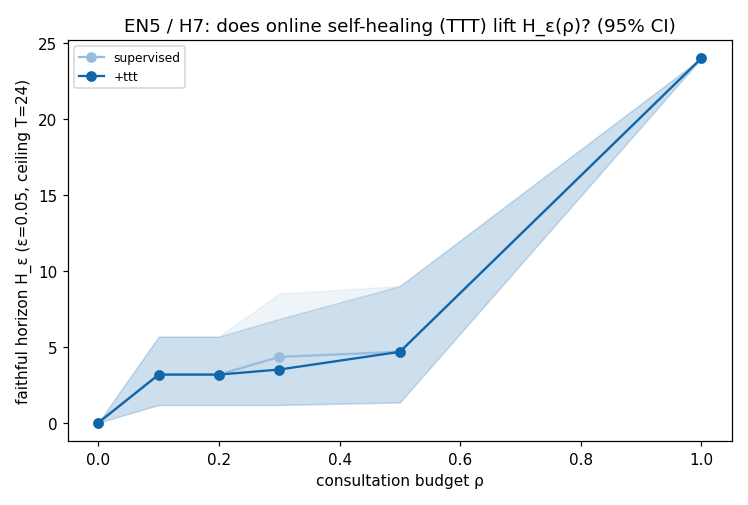
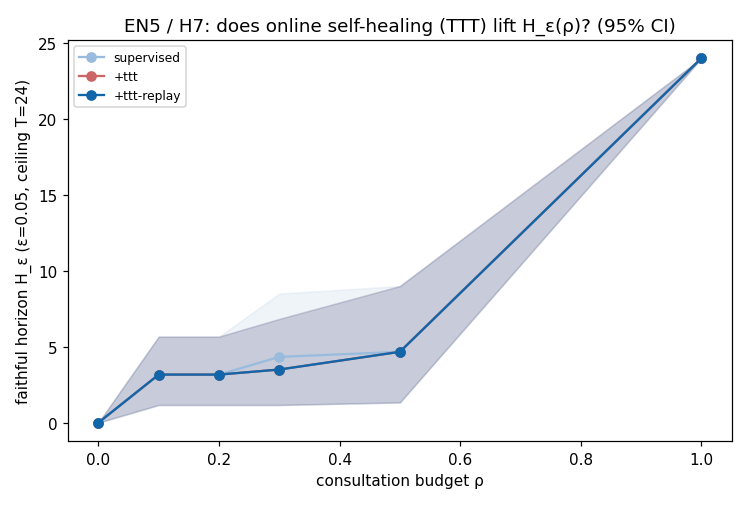
EN5 replay-buffer follow-up: the self-healing floor null is robust — adaptation can't lift it, scale/objective must
The next task was the pre-registered EN5 follow-up: run the real self-healing
budget (replay buffer of corrections), not just the minimal single-example step,
and see whether it lifts the model-invariant floor. It does not — a stronger,
cleaner negative that closes self-healing-as-floor-lifter at this scale.

Extended EN5 to three arms (refactored the TTT hook into a clean on_consult
closure so arms compose):
- supervised   0.0 / 3.2 / 3.2 / 4.3 / 4.7 / 24.0  (frozen weights)
- +ttt          0.0 / 3.2 / 3.2 / 3.5 / 4.7 / 24.0  (single-example update)
- +ttt-replay   0.0 / 3.2 / 3.2 / 3.5 / 4.7 / 24.0  (replay buffer, 5 updates/consult)

Both TTT arms are identical and ~= the frozen baseline (marginally lower at
rho=0.3); neither changes WHERE the first drift happens, so first-exceedance
H_eps is unmoved. So the richer budget does not rescue H7 — the STRONG form of
the negative. Consistent with EN7 (floor is model-invariant) and EN4 (the wall is
the one-step->horizon conversion): online adaptation cannot move the binding
per-step competence. The floor's real levers are scale (SPEC-9) and objective
grounding (SPEC-8), not adaptation or correction-as-teaching. RLVR stays deferred.

Banked: SPEC-5 §12 EN5 (Result -> robust null), SPEC-3 H7 (Result), report.md
(3-arm table + verdict), README §10 + Status + NW8 row. The online_update primitive
ships for the host/distributed worlds where horizons are longer.
[…]

diff --git a/src/verisim/experiments/en5.py b/src/verisim/experiments/en5.py
@@ -27,15 +27,16 @@ from __future__ import annotations
 
 import argparse
 import copy
+import random
+from collections.abc import Callable
 from dataclasses import dataclass, field
 from pathlib import Path
 from statistics import fmean
-from typing import Any
 
 from verisim.loop.policy import StepContext, fixed_interval_for_rho
 from verisim.metrics.aggregate import bootstrap_ci
 from verisim.net.action import NetAction
-from verisim.net.config import NetConfig, scaled_net_config
+from verisim.net.config import scaled_net_config
 from verisim.net.state import NetworkState
 from verisim.netdelta import apply
 from verisim.netloop import PartialNetOracle, budget_for_rho
@@ -43,10 +44,11 @@ from verisim.netloop.model import NetModel
 from verisim.netloop.runner import ground_truth_rollout
 from verisim.netmetrics.divergence import divergence
 from verisim.netoracle import ReferenceNetworkOracle
+from verisim.netoracle.base import NetStepResult
 
 from .en1 import eval_actions
 
-ARMS = ("supervised", "+ttt")
+ARMS = ("supervised", "+ttt", "+ttt-replay")
 
 
 @dataclass(frozen=True)
@@ -66,6 +68,9 @@ class EN5Config:
     # online TTT (the discipline: few steps, small lr — SPEC-3 HW-2)
     ttt_steps: int = 3
     ttt_lr: float = 1e-3
+    # the pre-registered self-healing budget: a replay buffer of recent corrections (SPEC-3 §6)
+    replay_steps: int = 5  # minibatch updates per consult, sampled from the buffer
+    replay_batch: int = 8
     # evaluation / sweep
     difficulties: dict[str, str] = field(
         default_factory=lambda: {"low": "weighted", "high": "adversarial"}
@@ -105,24 +110,19 @@ def _faithful_horizon(divergences: list[float], epsilon: float) -> int:
 def _rollout(
     model: NetModel,
     partial: PartialNetOracle,
-    config: NetConfig,
     s0: NetworkState,
     actions: list[NetAction],
     rho: float,
     epsilon: float,
     *,
-    ttt: tuple[Any, ...] | None,
+    on_consult: Callable[[NetworkState, NetAction, NetStepResult], None] | None,
 ) -> int:
     """One full-consultation propose-verify-correct rollout; returns the faithful horizon.
 
     Mirrors :func:`verisim.netloop.runner.run_net_rollout` (full-consult path) so the supervised arm
-    is EN1-identical; the only addition is the optional ``ttt = (graph_model, optimizer, steps,
-    vocab)`` hook that takes online gradient steps on the oracle-revealed delta on each consult.
+    is EN1-identical; the only addition is the optional ``on_consult`` hook, called with the exact
+    one-step truth on each consultation so an arm can take a self-healing gradient step (TTT) on it.
     """
-    from verisim.netmodel.graph import build_graph
-    from verisim.netmodel.graph_train import online_update
-    from verisim.netmodel.tokenizer import encode_target
-
     n = len(actions)
     truth_states = ground_truth_rollout(partial, s0, actions)
     policy = fixed_interval_for_rho(rho)
@@ -139,10 +139,8 @@ def _rollout(
         if consult:
             calls += 1
             result = partial.full(state, action)  # VERIFY: the exact one-step truth
-            if ttt is not None:  # self-healing: teach the revealed (state, action) → true-delta
-                gmodel, optimizer, steps, vocab = ttt
-                example = (build_graph(state, action, config), encode_target(result.delta, vocab))
-                online_update(gmodel, optimizer, [example], steps=steps)
+            if on_consult is not None:  # self-healing: teach the revealed (state, action) -> truth
+                on_consult(state, action, result)
             state = result.state  # CORRECT (hard reset to truth)
         else:
             state = predicted
@@ -151,12 +149,19 @@ def _rollout(
 
 
 def run_en5(config: EN5Config | None = None) -> list[CurvePoint]:
-    """Train the base arm, then sweep H_ε(ρ) for {supervised, +ttt}; one point per cell."""
+    """Train the base arm, then sweep H_ε(ρ) for the three arms; one point per (arm, ρ) cell."""
     import torch
 
     from verisim.netmodel import NetVocab
-    from verisim.netmodel.graph_model import build_graph_model
-    from verisim.netmodel.graph_train import build_graph_dataset, train_graph_model
+    from verisim.netmodel.graph import build_graph
+    from verisim.netmodel.graph_model import GraphRSSMWorldModel, build_graph_model
+    from verisim.netmodel.graph_train import (
+        GraphExample,
+        build_graph_dataset,
+        online_update,
+        train_graph_model,
+    )
+    from verisim.netmodel.tokenizer import encode_target
 
     config = config or EN5Config()
     torch.set_num_threads(1)  # process-reproducibility (the EN1 discipline)
@@ -175,6 +180,34 @@ def run_en5(config: EN5Config | None = None) -> list[CurvePoint]:
     )
     train_graph_model(base, examples, steps=config.graph_iters, seed=config.model_seed)
 
+    def _make_arm(
+        arm: str, seed: int
+    ) -> tuple[NetModel, Callable[[NetworkState, NetAction, NetStepResult], None] | None]:
+        """Return ``(proposer, on_consult)`` for ``arm``; TTT arms get a fresh adapting copy."""
+        if arm == "supervised":
+            return base, None
+        model: GraphRSSMWorldModel = copy.deepcopy(base)
+        opt = torch.optim.AdamW(model.net.parameters(), lr=config.ttt_lr)
+        if arm == "+ttt":  # minimal: one update on the single revealed example
+
+            def single(s: NetworkState, a: NetAction, r: NetStepResult) -> None:
+                ex = (build_graph(s, a, net), encode_target(r.delta, vocab))
+                online_update(model, opt, [ex], steps=config.ttt_steps)
+
+            return model, single
+        # +ttt-replay: the pre-registered self-healing budget — a growing replay buffer of
+        # corrections, several minibatch updates per consult (SPEC-3 §6; the H7-null next lever).
+        buffer: list[GraphExample] = []
+        rng = random.Random(seed)
+
+        def replay(s: NetworkState, a: NetAction, r: NetStepResult) -> None:
+            buffer.append((build_graph(s, a, net), encode_target(r.delta, vocab)))
+            for _ in range(config.replay_steps):
+                batch = rng.sample(buffer, min(config.replay_batch, len(buffer)))
+                online_update(model, opt, batch, steps=1)
+
+        return model, replay
+
     points: list[CurvePoint] = []
     for arm in ARMS:
         per_rho: dict[float, list[float]] = {rho: [] for rho in config.rhos}
@@ -183,15 +216,10 @@ def run_en5(config: EN5Config | None = None) -> list[CurvePoint]:
                 actions = eval_actions(oracle, net, driver, seed, config.eval_steps)
                 for rho in config.rhos:
                     torch.manual_seed(seed)  # reproducible TTT sampling per rollout
-                    if arm == "+ttt":
-                        model = copy.deepcopy(base)
-                        opt = torch.optim.AdamW(model.net.parameters(), lr=config.ttt_lr)
-                        ttt: tuple[Any, ...] | None = (model, opt, config.ttt_steps, vocab)
-                    else:
-                        model, ttt = base, None
+                    model, on_consult = _make_arm(arm, seed)
                     horizon = _rollout(
-                        model, partial, net, NetworkState.initial(net.hosts), actions,
-                        rho, config.epsilon, ttt=ttt,
+                        model, partial, NetworkState.initial(net.hosts), actions,
+                        rho, config.epsilon, on_consult=on_consult,
                     )
                     per_rho[rho].append(horizon)
         for rho in config.rhos:
@@ -217,7 +245,7 @@ def _plot(points: list[CurvePoint], path: Path, config: EN5Config) -> None:  # p
     import matplotlib.pyplot as plt
 
     fig, ax = plt.subplots(figsize=(6.8, 4.6))
-    colors = {"supervised": "#9bd", "+ttt": "#16a"}
+    colors = {"supervised": "#9bd", "+ttt": "#c66", "+ttt-replay": "#16a"}
     for arm in ARMS:
         cells = sorted((p for p in points if p.arm == arm), key=lambda p: p.rho)
         xs = [p.rho for p in cells]

diff --git a/tests/test_en5.py b/tests/test_en5.py
@@ -18,6 +18,8 @@ def _tiny() -> EN5Config:
         train_steps_per_traj=10,
         graph_iters=30,
         ttt_steps=2,
+        replay_steps=2,
+        replay_batch=4,
         difficulties={"low": "weighted"},
         eval_seeds=(100,),
         eval_steps=8,

diff --git a/README.md b/README.md
@@ -232,16 +232,19 @@ the weights mid-rollout lift the curve where frozen weights cannot?
 | arm | ρ=0 | ρ=0.1 | ρ=0.3 | ρ=0.5 | ρ=1.0 |
 |---|---|---|---|---|---|
 | supervised (frozen) | 0.0 | 3.2 | 4.3 | 4.7 | 24.0 |
-| +ttt (self-healing) | 0.0 | 3.2 | 3.5 | 4.7 | 24.0 |
+| +ttt (single-example) | 0.0 | 3.2 | 3.5 | 4.7 | 24.0 |
+| +ttt-replay (replay buffer) | 0.0 | 3.2 | 3.5 | 4.7 | 24.0 |
 
-**A null at this scale.** The self-healing arm matches the frozen baseline (marginally *lower* at ρ=0.3 —
-single-example updates occasionally perturb without generalizing). This is consistent, not surprising:
+**A robust null — and the pre-registered lever was run, not just promised.** *Both* self-healing arms —
+the minimal single-example update **and** the replay-buffer budget (a growing buffer of corrections, 5
+minibatch updates per consult) — match the frozen baseline; neither changes *where* the first drift
+happens, so `H_ε` is unmoved. The richer budget does not rescue H7. This is consistent, not surprising:
 EN4 localized the wall to the **one-step→horizon conversion** and EN7 showed the floor is model-invariant,
-so a handful of in-rollout steps on single examples can't move the binding per-step competence. It's the
-v0 RLVR/H3 null surviving into the network world, and the TTT-stability literature predicted exactly this
-for minimal updates. *Pre-registered next lever:* a real self-healing budget — a **replay buffer** of
-recent corrections + trust-region revert, not the minimal single-example step. The
-[`online_update`](src/verisim/netmodel/graph_train.py) primitive ships for that follow-up.
+so online adaptation — in either form — can't move the binding per-step competence. **Where this routes
+the floor:** self-healing-as-floor-lifter is closed at this scale; the floor's real levers are **scale
+([SPEC-9](docs/specs/SPEC-9.md)) and objective grounding ([SPEC-8](docs/specs/SPEC-8.md))**, not
+adaptation. The [`online_update`](src/verisim/netmodel/graph_train.py) primitive ships for the
+host/distributed worlds where horizons are longer.
 
 ## The problem, and what we're trying to accomplish
 
@@ -407,10 +410,11 @@ write-up is [docs/report.md](docs/report.md).
 > modestly by scaling negatives with the world).** **EN7/H22 model-invariance now ships** ([§9](#9-the-no-knee-shape-is-the-loops-not-the-models-network-en7--h22)):
 > the floor+cliff `H_ε(ρ)` shape is the same across null / flat / graph proposers — the loop governs the
 > shape, the proposer sets the floor height (H22 supported in kind). **EN5/H7 self-healing also ships**
-> ([§10](#10-online-self-healing-ttt-does-not-lift-the-floor--yet-network-en5--h7-an-honest-null)): a
-> minimal in-rollout TTT step does *not* lift the floor (an honest null, consistent with EN4/EN7) — the
-> pre-registered fix is a real replay-buffer self-healing budget. Next: EN6 (counterfactual two-oracle),
-> the SPEC-9 LS3 hero instance (N~400–512), and the replay-buffer EN5 follow-up.
+> ([§10](#10-online-self-healing-ttt-does-not-lift-the-floor--yet-network-en5--h7-an-honest-null)):
+> *neither* a minimal in-rollout TTT step *nor* the pre-registered replay-buffer self-healing budget
+> lifts the floor (a robust null, consistent with EN4/EN7) — so the floor's levers are scale (SPEC-9) and
+> objective grounding (SPEC-8), not adaptation. Next: EN6 (counterfactual two-oracle, H12/H5 change-safety),
+> the SPEC-9 LS3 hero instance (N~400–512).
 
 **v0 — shell/filesystem world (`src/verisim/`, SPEC-2 §13): complete.**
 
@@ -433,7 +437,7 @@ write-up is [docs/report.md](docs/report.md).
 | **NW5** | Partial-observation loop ([`netloop/`](src/verisim/netloop/)): two-mode (full / **probe**) oracle, probe policies `π_o`, correction/belief operators, baselines, model-agnostic runner | ✅ |
 | **NW6** | **EN1 network `H_ε(ρ)` curve** ([`en1_curve.png`](figures/en1_curve.png)) — the prime directive. Honest H8 negative on the flat arm: near-flat interior | ✅ |
 | **NW7** | Equal-budget comparisons. **EN2** (policy `π_c`, H9) + **EN3** (operators, §8.3): EN3 breaks v0's operator-identity collapse — the probe earns **~2.3×** more faithful horizon per oracle-bit | ◐ EN2/EN3 |
-| **NW8** | **GNN + RSSM graph arm** ([`graph_model.py`](src/verisim/netmodel/graph_model.py)) + §6.3 **noise + self-forcing** levers + **EN4 graph-vs-flat (H11)** + **delta-exact metric** ([`exact.py`](src/verisim/netmetrics/exact.py)) + **SPEC-8 OG1/OG2 data factory** ([`grounding.py`](src/verisim/netdata/grounding.py), [`negatives.py`](src/verisim/netdata/negatives.py)) + **SPEC-8 EN8/OG3 ablation** ([`en8.py`](src/verisim/experiments/en8.py), [`grounded_train.py`](src/verisim/netmodel/grounded_train.py): H23 collapse-tax removed, H24 near-tie) + **SPEC-8 EN9/OG4 ablation** ([`en9.py`](src/verisim/experiments/en9.py): H25 confirmed, H5 fidelity ~2× over VICReg) + **EN7/H22 model-invariance** ([`en7.py`](src/verisim/experiments/en7.py): the floor+cliff `H_ε(ρ)` shape is invariant across null/flat/graph proposers — H22 supported in kind) + **EN5/H7 self-healing** ([`en5.py`](src/verisim/experiments/en5.py): a minimal online-TTT step is a null at this scale; the `online_update` primitive ships for the replay-buffer follow-up). Then counterfactual (EN6) | ◐ graph arm + EN4 + both levers + OG1/OG2 + EN8/OG3 + EN9/OG4 + EN7/H22 + EN5/H7 |
+| **NW8** | **GNN + RSSM graph arm** ([`graph_model.py`](src/verisim/netmodel/graph_model.py)) + §6.3 **noise + self-forcing** levers + **EN4 graph-vs-flat (H11)** + **delta-exact metric** ([`exact.py`](src/verisim/netmetrics/exact.py)) + **SPEC-8 OG1/OG2 data factory** ([`grounding.py`](src/verisim/netdata/grounding.py), [`negatives.py`](src/verisim/netdata/negatives.py)) + **SPEC-8 EN8/OG3 ablation** ([`en8.py`](src/verisim/experiments/en8.py), [`grounded_train.py`](src/verisim/netmodel/grounded_train.py): H23 collapse-tax removed, H24 near-tie) + **SPEC-8 EN9/OG4 ablation** ([`en9.py`](src/verisim/experiments/en9.py): H25 confirmed, H5 fidelity ~2× over VICReg) + **EN7/H22 model-invariance** ([`en7.py`](src/verisim/experiments/en7.py): the floor+cliff `H_ε(ρ)` shape is invariant across null/flat/graph proposers — H22 supported in kind) + **EN5/H7 self-healing** ([`en5.py`](src/verisim/experiments/en5.py): a robust null — neither single-example TTT nor a replay-buffer budget lifts the floor; the floor's levers are scale/objective, not adaptation). Then counterfactual (EN6) | ◐ graph arm + EN4 + both levers + OG1/OG2 + EN8/OG3 + EN9/OG4 + EN7/H22 + EN5/H7 |
 | **SPEC-9 LS0–LS2** | **Free-oracle scaling** ([`en8_scale.py`](src/verisim/experiments/en8_scale.py), [`en9_scale.py`](src/verisim/experiments/en9_scale.py), [`en8_capacity.py`](src/verisim/experiments/en8_capacity.py), [`scale_common.py`](src/verisim/experiments/scale_common.py)): the measured local envelope + the 8× world-size surface with bootstrap CIs ([§8](#8-which-wins-survive-scaling--the-honest-mixed-verdict-spec-9)). **S1** H23 attenuates, **S2** H25/H5 reverses, **S3** H24 regime-dependent. The [`en9_negatives.py`](src/verisim/experiments/en9_negatives.py) S2-recovery diagnostic **confirms** the lift recovers when negatives scale with the world (k 8→32 flips it back to disjoint-positive) | ✅ LS0–LS2 + S2-recovery + S3 frontier |
 
 The deterministic cores (filesystem and network) have **no runtime dependencies** and need no GPU.

diff --git a/docs/report.md b/docs/report.md
@@ -737,20 +737,23 @@ trajectory. Two arms through the same loop (5 hosts, ε=0.05, T=24, 3 seeds × 2
 | arm | ρ=0 | ρ=0.1 | ρ=0.2 | ρ=0.3 | ρ=0.5 | ρ=1.0 |
 |---|---|---|---|---|---|---|
 | supervised (frozen) | 0.0 | 3.2 | 3.2 | 4.3 | 4.7 | 24.0 |
-| +ttt (self-healing) | 0.0 | 3.2 | 3.2 | 3.5 | 4.7 | 24.0 |
+| +ttt (single-example) | 0.0 | 3.2 | 3.2 | 3.5 | 4.7 | 24.0 |
+| +ttt-replay (replay buffer) | 0.0 | 3.2 | 3.2 | 3.5 | 4.7 | 24.0 |
 
 ![EN5 / H7: online self-healing (TTT) does not lift H_ε(ρ) at this scale](../figures/en5_selfheal.png)
 
-**H7 is a null at this scale.** The self-healing arm does not lift `H_ε(ρ)` above the frozen baseline —
-identical in kind, marginally *lower* at ρ=0.3 (a few single-example gradient steps occasionally perturb
-the weights without generalizing to the next unaided step). This is the v0 H3/RLVR null surviving into the
-network world, and it is *consistent*, not surprising: EN7 showed the floor is model-invariant and EN4
-localized the wall to the **one-step→horizon conversion**, so a handful of in-rollout steps on single
-examples cannot move the binding per-step competence. The TTT-stability literature (SPEC-3 §6.3) predicted
-exactly this risk for minimal updates — so a null *confirms a known failure mode* rather than wasting the
-run. **Pre-registered next lever:** a real self-healing budget — a replay buffer of recent corrections,
-more steps, a trust-region revert — not the minimal single-example update; and RLVR stays deferred (its
-reward is sparse exactly at the floor). The `online_update` primitive ships for that follow-up either way.
+**H7 is a robust null at this scale — and the pre-registered next lever was run, not just promised.** Both
+self-healing arms — the minimal single-example update *and* the **replay-buffer budget** (a growing buffer
+of corrections, 5 minibatch updates per consult, SPEC-3 §6) — match the frozen baseline (marginally *lower*
+at ρ=0.3); neither changes *where* the first drift happens, so the first-exceedance `H_ε` is unmoved. So
+the richer budget does not rescue H7: this is the **strong** form of the negative. It is *consistent*, not
+surprising: EN7 showed the floor is model-invariant and EN4 localized the wall to the
+**one-step→horizon conversion**, so online adaptation — in either form — cannot move the binding per-step
+competence. The TTT-stability literature (SPEC-3 §6.3) predicted exactly this for in-rollout updates.
+**Where this routes the floor:** self-healing-as-floor-lifter is closed at this scale; the floor's real
+levers are **scale (SPEC-9) and objective grounding (SPEC-8 oracle-anchored pretraining)**, not adaptation
+or correction-as-teaching. RLVR stays deferred (its reward is sparse exactly at the floor). The
+`online_update` primitive ships regardless, for the host/distributed worlds where horizons are longer.
 
 ## Threats to validity
 

diff --git a/docs/specs/SPEC-5.md b/docs/specs/SPEC-5.md
@@ -736,16 +736,17 @@ the network world — they are gated on the NW8 latent arm.
   > **Result — H7 a null at this scale ([`en5.py`](../../src/verisim/experiments/en5.py),
   > [`en5_selfheal.csv`](../../figures/en5_selfheal.csv); 5 hosts, ε=0.05, T=24, 3 seeds × 2
   > difficulties, the [`online_update`](../../src/verisim/netmodel/graph_train.py) TTT primitive).**
-  > Adding an in-rollout gradient step on each oracle-revealed delta (the self-healing arm) does **not**
-  > lift `H_ε(ρ)` above the frozen-weights baseline: supervised 0.0/3.2/3.2/4.3/4.7/24 vs +ttt
-  > 0.0/3.2/3.2/3.5/4.7/24 — identical in kind, marginally *lower* at ρ=0.3 (single-example updates
-  > occasionally perturb without generalizing to the next unaided step). This is the v0 H3/RLVR null
-  > surviving into the network world, and it is consistent: EN7 showed the floor is model-invariant and
-  > EN4 localized the wall to the one-step→horizon conversion, so a handful of in-rollout steps on single
-  > examples cannot move the binding per-step competence. *Pre-registered next lever (SPEC-3 §6):* a
-  > real self-healing budget — a **replay buffer** of recent corrections, more steps, trust-region revert
-  > — not the minimal single-example update; RLVR stays deferred (sparse reward at the floor). The
-  > `online_update` primitive ships either way. *RLVR arm deferred (rationale in the EN5 docstring).*
+  > Adding an in-rollout gradient step on each oracle-revealed delta does **not** lift `H_ε(ρ)` above
+  > the frozen-weights baseline, and **the pre-registered replay-buffer lever — run here as a third arm —
+  > is also null**: supervised 0.0/3.2/3.2/**4.3**/4.7/24, +ttt 0.0/3.2/3.2/**3.5**/4.7/24, +ttt-replay
+  > 0.0/3.2/3.2/**3.5**/4.7/24. Both TTT arms are identical and ≈ the frozen baseline (marginally *lower*
+  > at ρ=0.3) — neither changes *where* the first drift happens, so first-exceedance `H_ε` is unmoved.
+  > This is the **strong** form of the H7 negative: even a real self-healing budget (replay buffer + 5
+  > minibatch updates per consult) does not lift the floor at this scale. Consistent: EN7 showed the
+  > floor is model-invariant and EN4 localized the wall to the one-step→horizon conversion, so online
+  > adaptation cannot move the binding per-step competence — that needs **scale (SPEC-9) and objective
+  > grounding (SPEC-8)**, not adaptation. *RLVR stays deferred* (sparse reward at the floor; rationale in
+  > the EN5 docstring). The [`online_update`](../../src/verisim/netmodel/graph_train.py) primitive ships.
 - **EN6 — counterfactual & two-oracle grounding** (**H5**, **H12**): train with
   branched-replay counterfactuals; add the Batfish-style control-plane oracle (§5.1);
   measure faithfulness and downstream change-safety on held-out incidents.

diff --git a/docs/specs/SPEC-3.md b/docs/specs/SPEC-3.md
@@ -324,7 +324,7 @@ The discipline of SPEC-2 §10 holds: **no new top-level directory**, exactly the
 
 - **H4 (mechanism survives reality).** *(restated, now testable)* The `H_ε(ρ)` curve obtained with the system oracle (§2) qualitatively matches the reference-oracle curve on the same command grammar. *Refuted if* real-OS nondeterminism collapses the horizon regardless of consultation.
 - **H6 (data beats parameters at this scale).** Curriculum + coverage + hard-negative training (§5.1) lifts clean accuracy off the H1 floor more than an equal-compute parameter scale-up. *Refuted if* matched-compute scaling wins. *(E4 is the prior that motivates H6.)*
-- **H7 (correction teaches online).** Self-healing (§6) reduces divergence *after* corrections within a single rollout, beating `hard_reset`. *Refuted if* indistinguishable (the v0 H3 null survives at depth). **Result — a null at smoke scale (EN5, [SPEC-5 §12](./SPEC-5.md)): a minimal in-rollout gradient step on each oracle-revealed delta does not lift `H_ε(ρ)` over frozen weights (supervised vs +ttt identical in kind). The TTT-stability literature predicted this — the minimal single-example update cannot move per-step competence; the pre-registered fix is a real self-healing budget (replay buffer + trust-region), not the cheap step.**
+- **H7 (correction teaches online).** Self-healing (§6) reduces divergence *after* corrections within a single rollout, beating `hard_reset`. *Refuted if* indistinguishable (the v0 H3 null survives at depth). **Result — a robust null at smoke scale (EN5, [SPEC-5 §12](./SPEC-5.md)): neither a minimal in-rollout gradient step *nor* the pre-registered replay-buffer self-healing budget lifts `H_ε(ρ)` over frozen weights (supervised, +ttt, +ttt-replay all identical in kind; neither changes the first-exceedance step). The TTT-stability literature predicted this — online adaptation cannot move the binding per-step competence; the floor needs scale (SPEC-9) and objective grounding (SPEC-8), not adaptation. Self-healing-as-floor-lifter is closed at this scale.**
 - **H8 (the interesting interior lives in networks).** The multi-host world (§3) exhibits H1's favorable knee (≥80% of ceiling horizon at ≤20% consultation) where the single-FS world did not. *Refuted if* the network curve is also flat/linear.
 - **H9 (speculative scheduling dominates).** Consultation policies derived from acceptance-rate estimates (§8/DD-7) beat fixed-interval at equal budget — H2, finally, with a calibrated signal. *Refuted if* they do not.
 